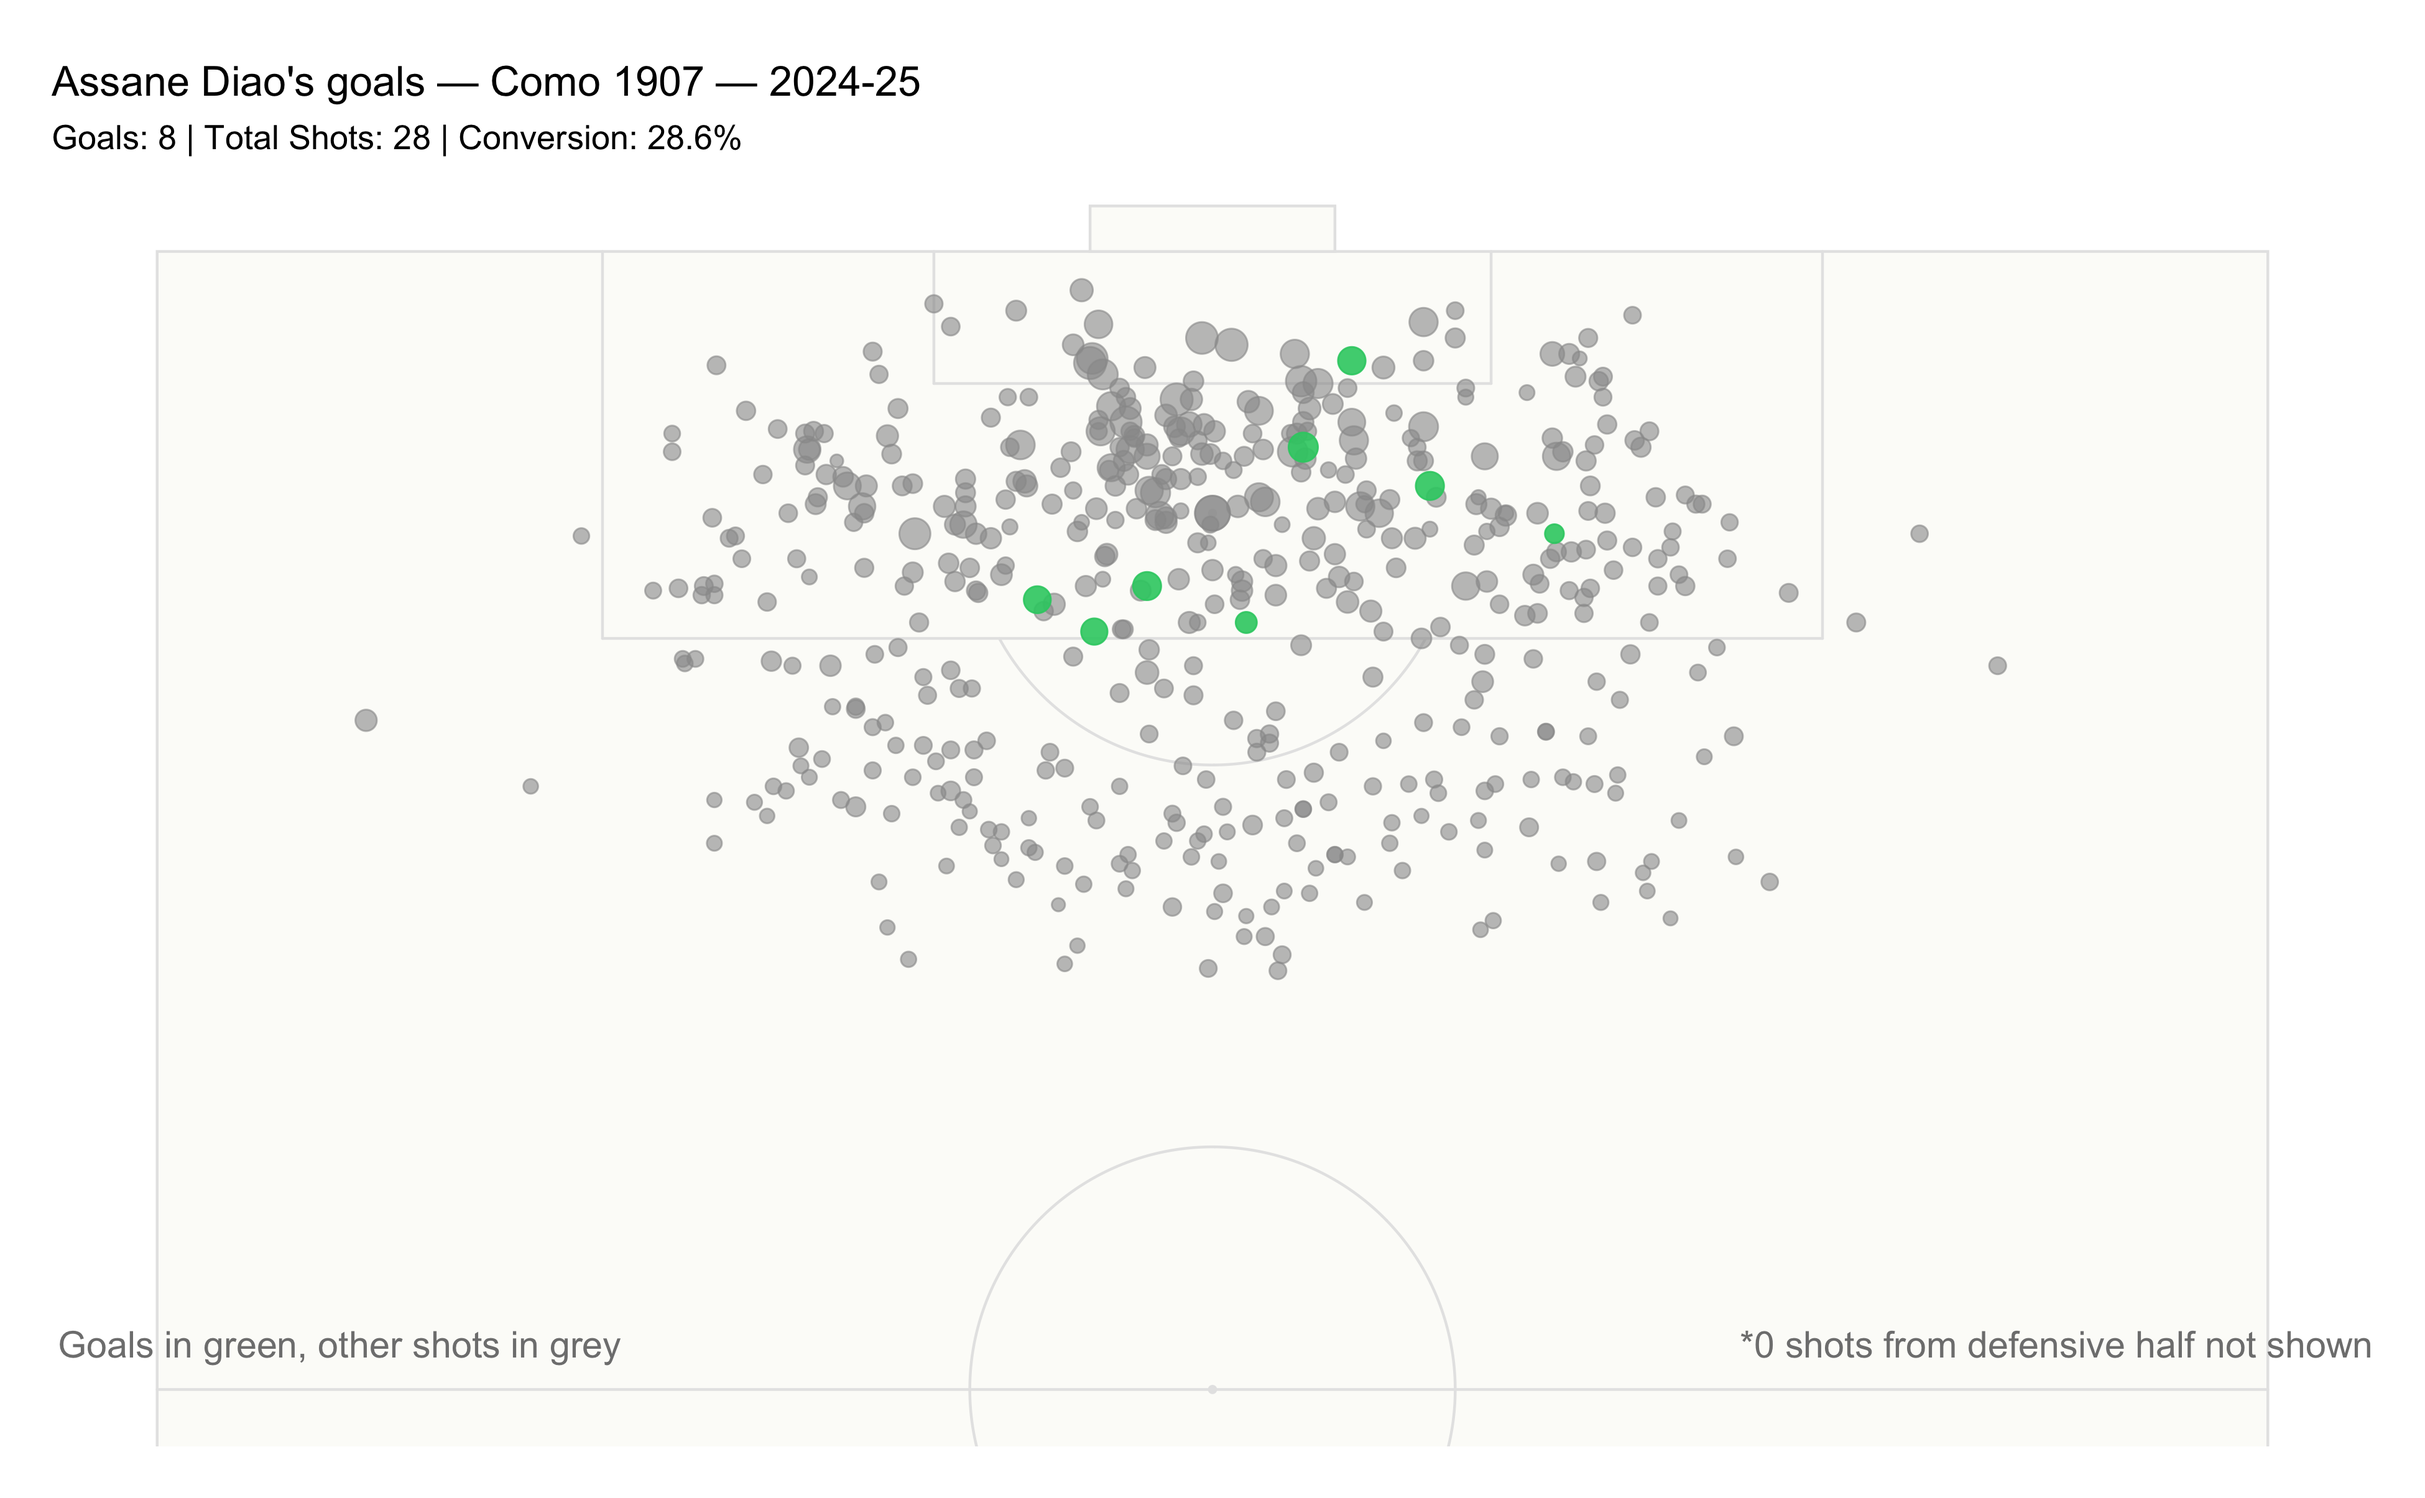
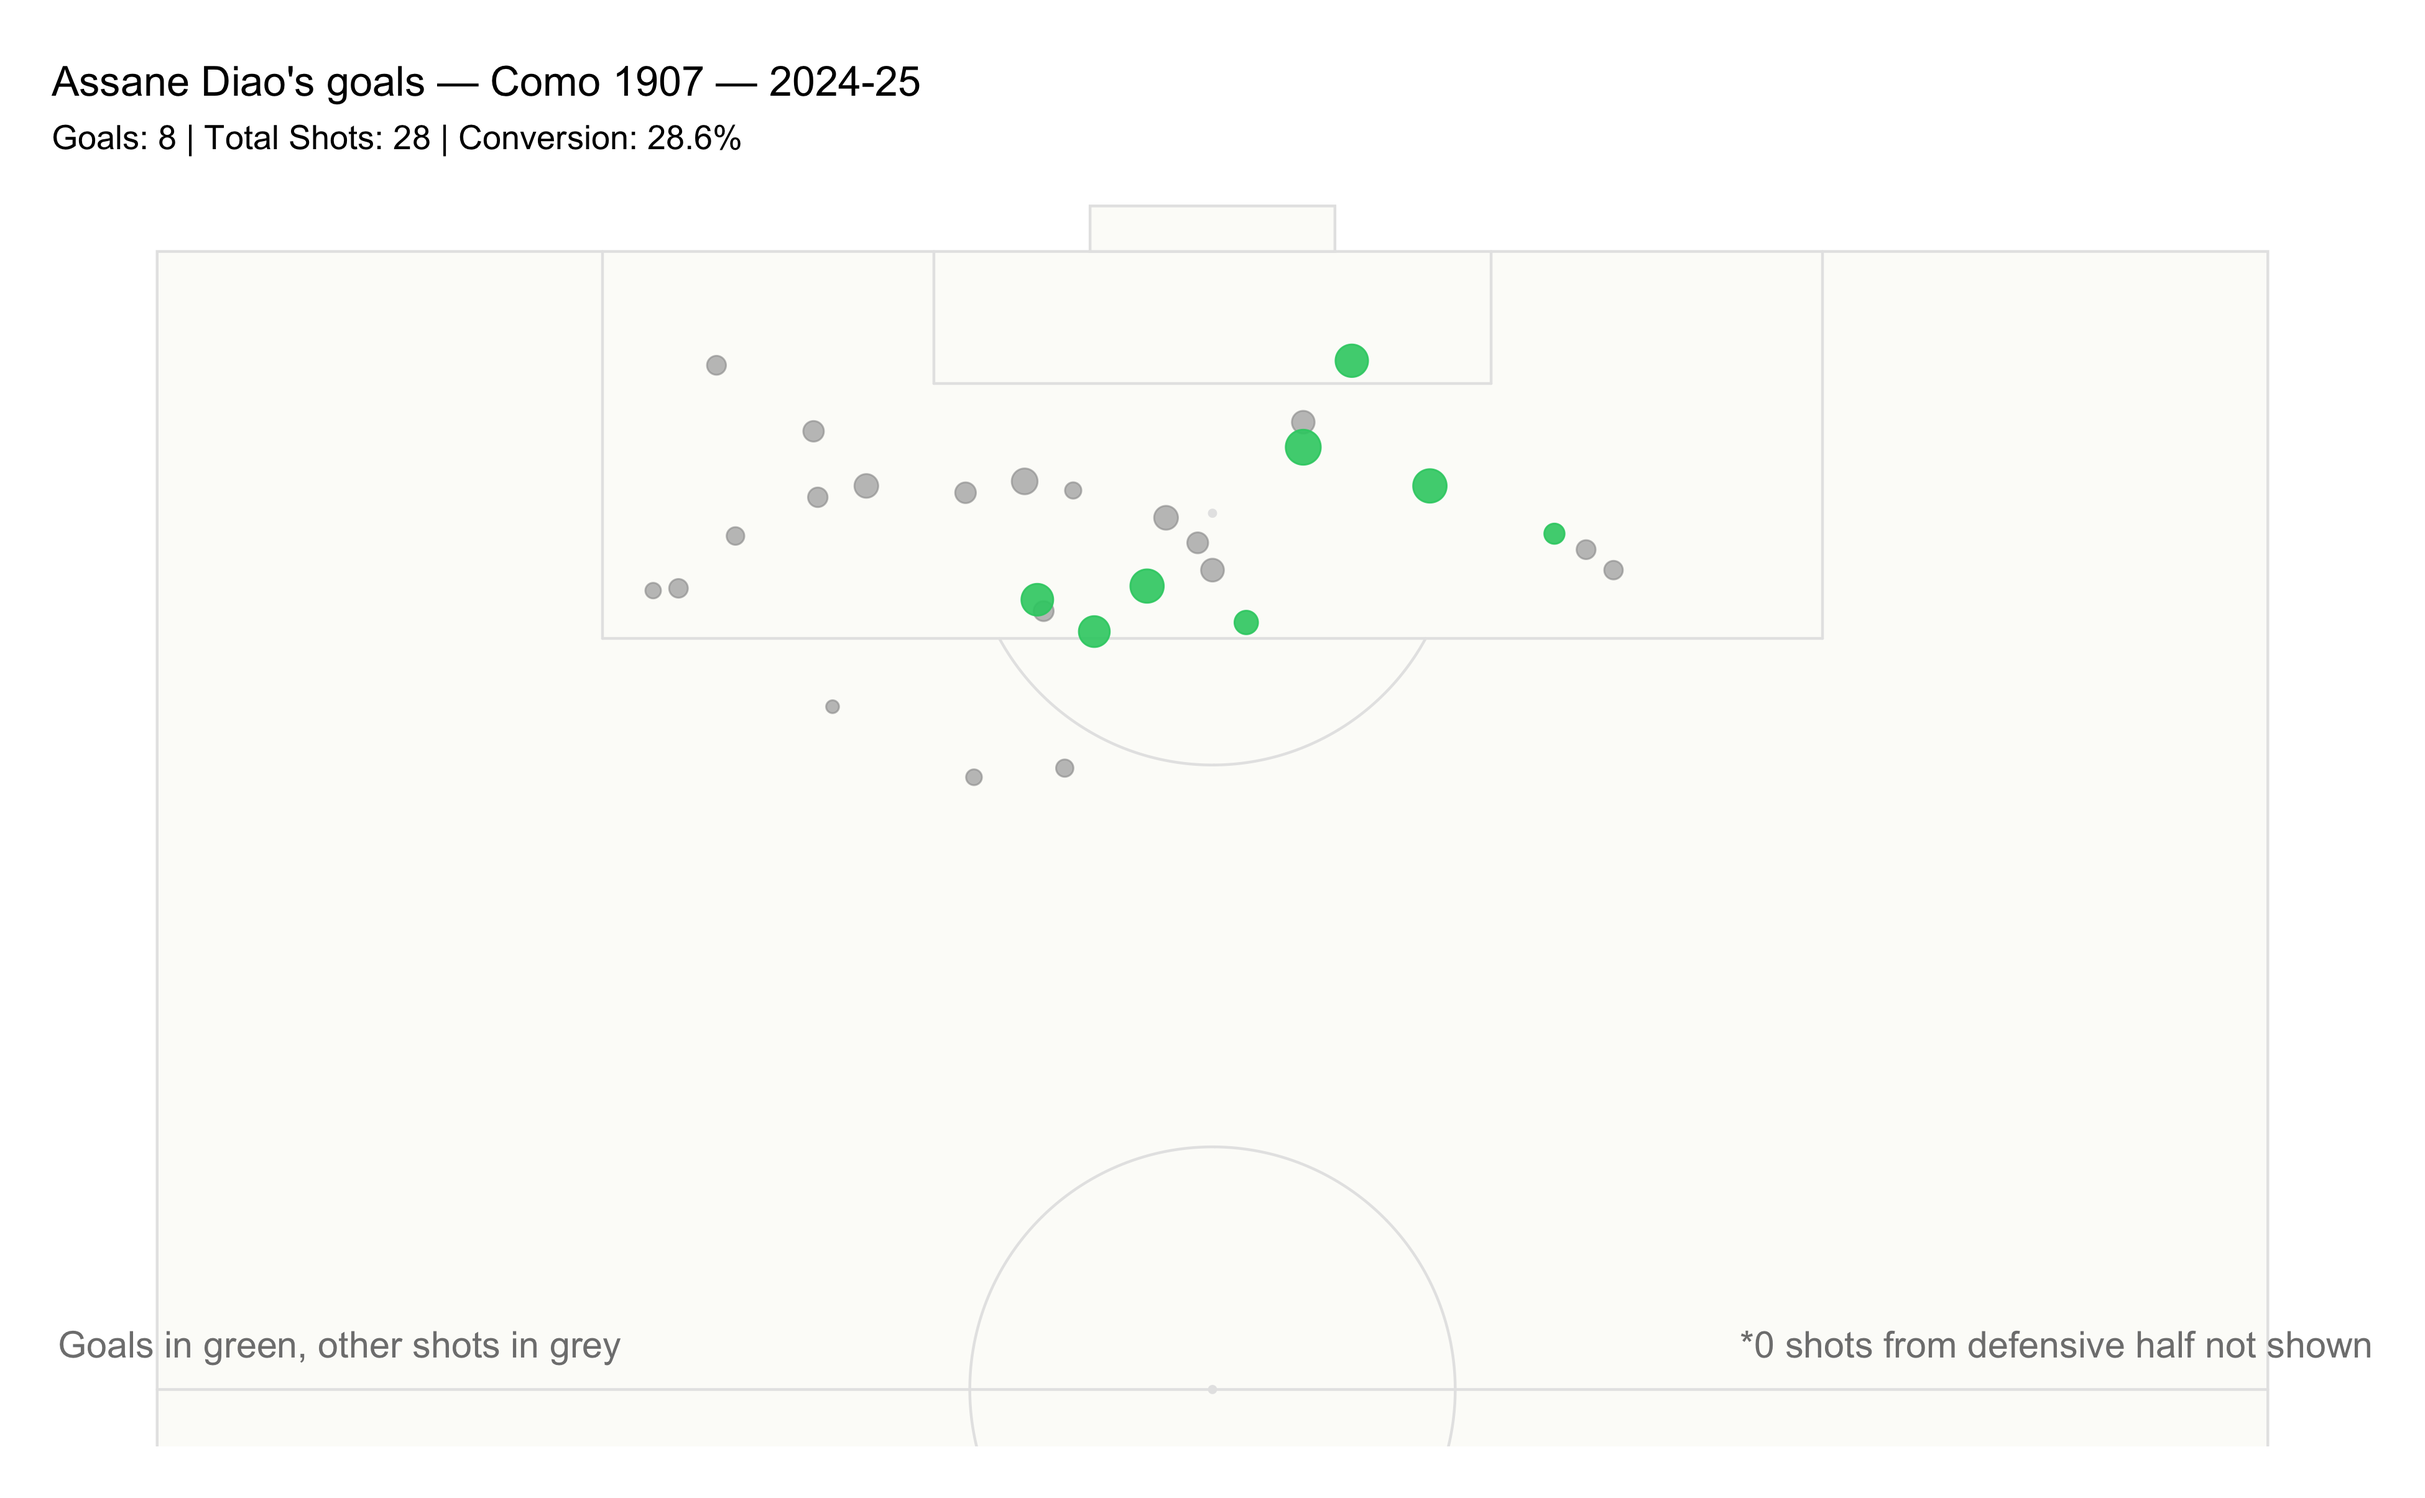
update files

diff --git a/projects/como_1907_scoring_patterns_2024_25.md b/projects/como_1907_scoring_patterns_2024_25.md
@@ -202,7 +202,7 @@ ggplot() +
   annotate_pitch(colour = "grey90", fill = "#FCFCF9", limits = FALSE) + 
   
   # Plot all non-goal shots in grey first (bottom layer)
-  geom_point(data = filter(como.2024.team.shot, result != "Goal"),
+  geom_point(data = filter(como.2024.team.shot, result != "Goal", player_id == 12081),
              aes(x = X * 100, y = Y * 100, size = xG),
              color = "grey60", alpha = 0.6) +
   
